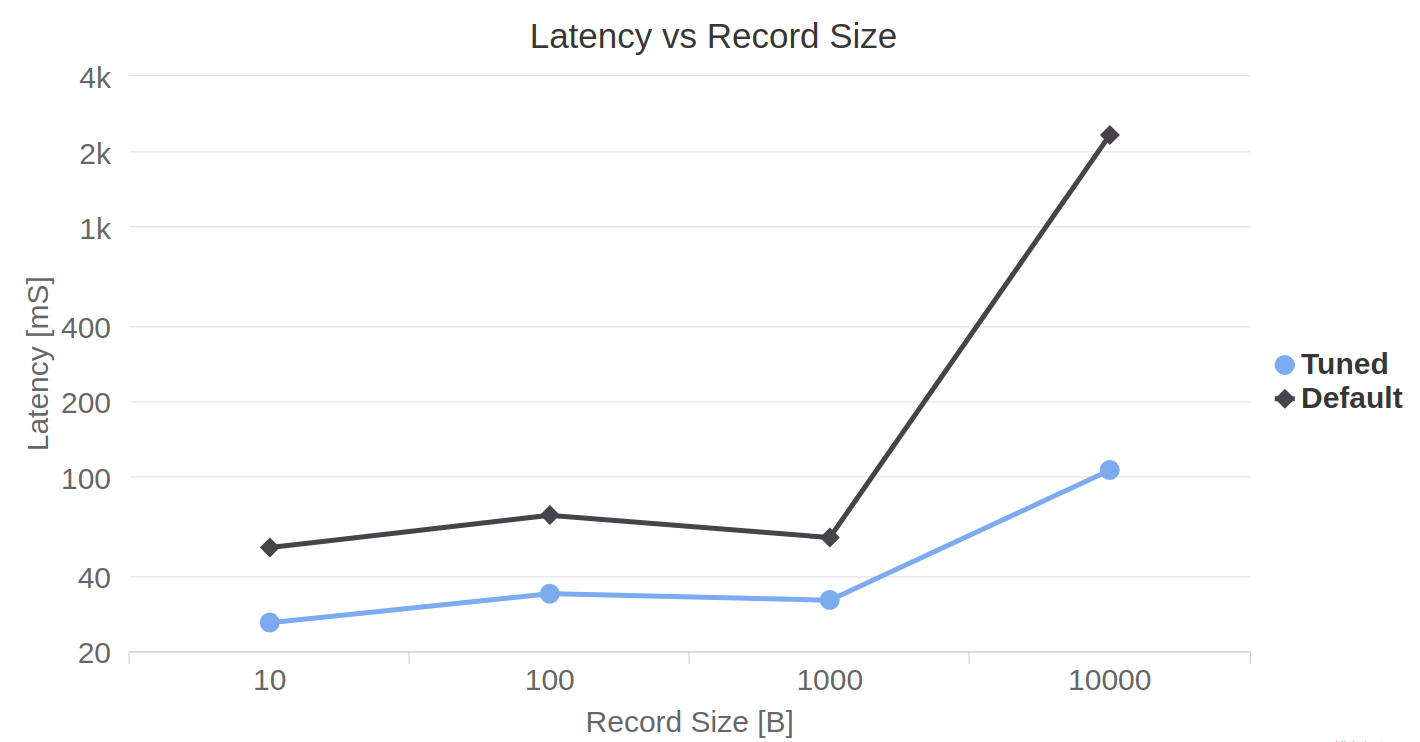
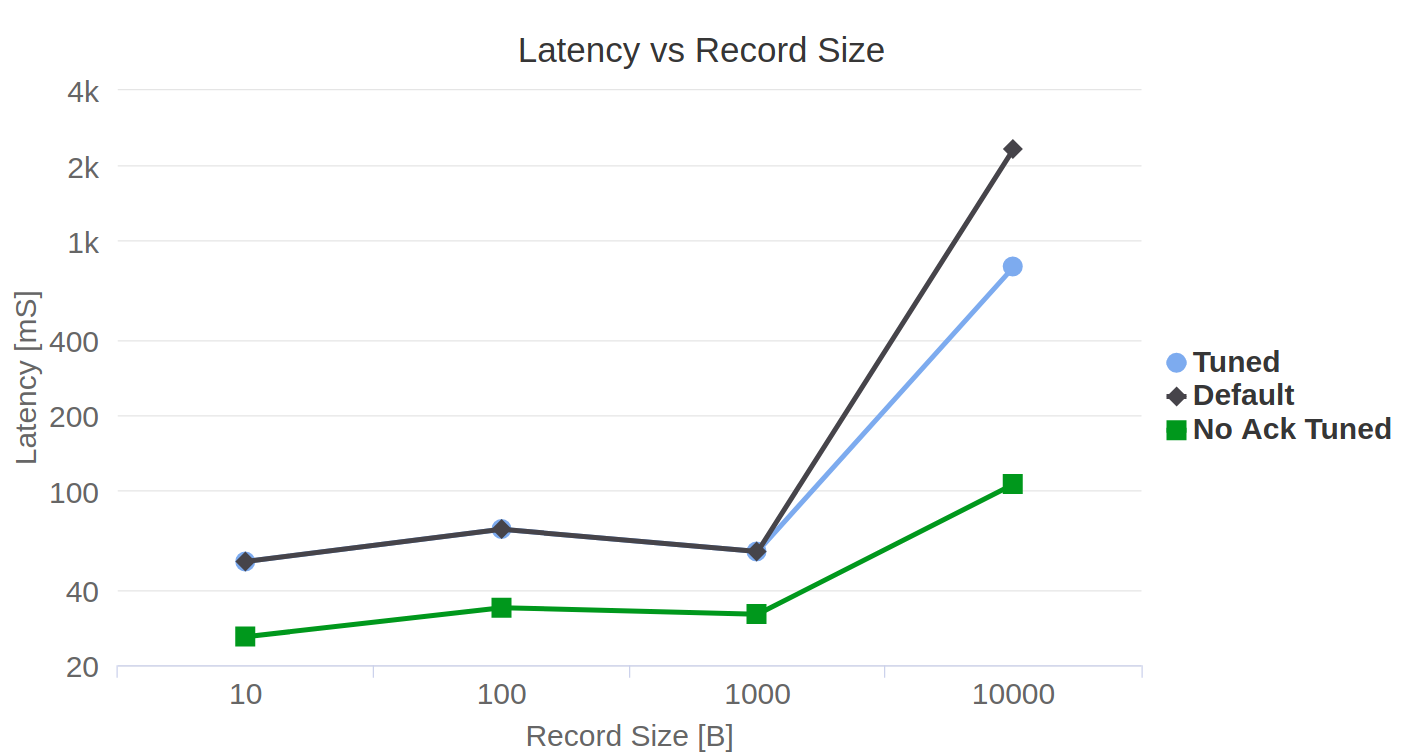
final documentation edit

diff --git a/README.md b/README.md
@@ -40,8 +40,8 @@ The results are presented below.
 ![alt](https://github.com/chrischaplin/IngesTune/blob/master/figs/latency.png)
 
 The tuner was able to double throughput, compared to the default producer configuation, for all of the tested message sizes.
-Similarly, the tuner was able to improve the latency by a factor of two for each message size.
-Most of the latency performance gains, though not all, came from changing the acknowledgement configuration.
+As for latency, it was difficult to beat the default settings except for larger message sizes.
+Removing the acknowledgement requirement cut the latency by at least 2x over all message sizes.
 
 
 ## Usage
